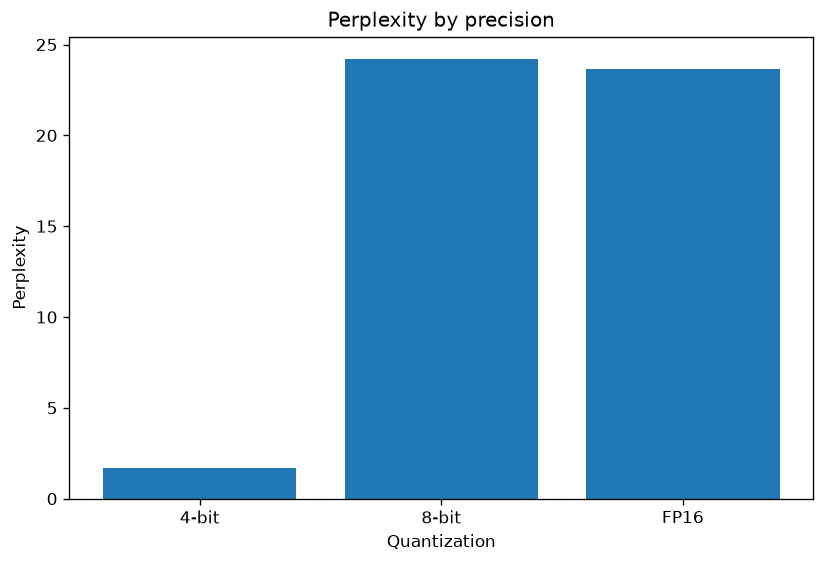
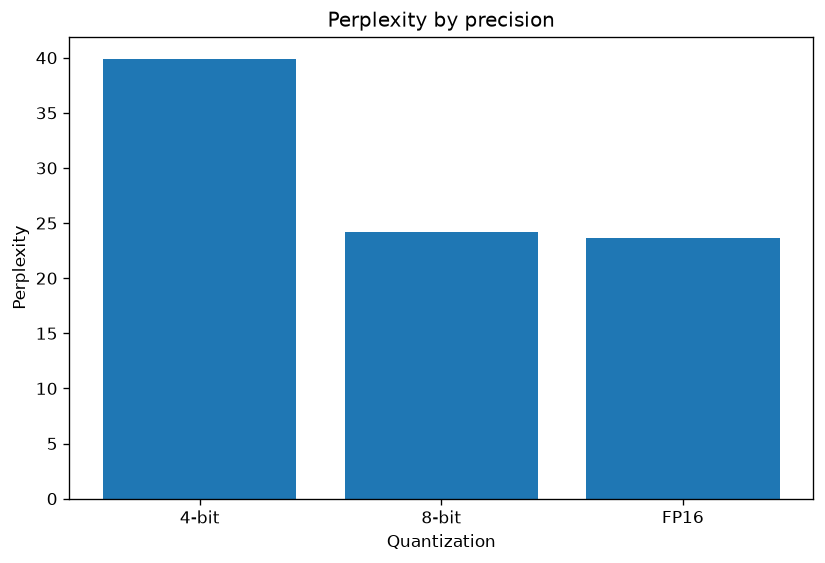
fix: pin perplexity figure to the baseline prompt length (#26)
* fix: pin perplexity figure to the baseline prompt length

The perplexity-by-precision figure compared quants at *different* prompt
lengths: `perplexity_by_quant` selected the first-loaded warm AirLLM run per
quant with no length pin, so for nf4 it picked up `airllm-nf4-len256`
(perplexity 1.67 on a 256-token prompt) instead of the fixed 40-token run
(39.92). Perplexity is not comparable across prompt lengths — longer context
lowers it — so the committed figure showed 4-bit as the *best* quality, the
exact inverse of the measured result and the report thesis (4-bit trades
quality for speed: 39.9 vs 8-bit 24.2 vs FP16 23.7 at a fixed prompt).

Fix: pin the selector to `_baseline_length` (the shortest measured prompt),
matching every sibling selector (cold_warm_ttft, cautionary_airllm_run,
itl_series). Regenerated figures/perplexity.png (only that figure changes).

RED→GREEN: new test asserts a stray longer-prompt sweep run does not feed the
cross-quant comparison. Found during T7.2 figure review.

* fix: pin perplexity to one global length across quants (PR #26 review)

Antigravity [Blocking]: the per-quant baseline is correct for cold_warm_ttft
(compares phases *within* a quant) but wrong for perplexity_by_quant, which
compares *across* quants. Under an asymmetric matrix (nf4 from 40, int8 only at
64) a per-quant baseline would compare nf4@40 against int8@64 — the same
not-comparable-across-lengths trap the original fix set out to kill.
[…]

diff --git a/tests/unit/test_plotting/test_prepare.py b/tests/unit/test_plotting/test_prepare.py
@@ -89,6 +89,32 @@ def test_perplexity_by_quant_uses_labelled_quants() -> None:
     assert ppl == {"4-bit": 39.9, "8-bit": 24.2}
 
 
+def test_perplexity_compares_quants_at_the_same_baseline_length() -> None:
+    # A longer-prompt sweep run carries a different (lower) perplexity, but perplexity
+    # across prompt lengths is not comparable. The cross-quant figure must pin to the
+    # baseline (shortest) length — like every sibling selector — not pick whichever
+    # warm run loads first (which would plot 1.7 for 4-bit and invert the thesis).
+    rows = [
+        _r("nf4-len256", "airllm", "nf4", "warm", prompt_tokens=256, perplexity=1.7),
+        _r("nf4-warm", "airllm", "nf4", "warm", prompt_tokens=40, perplexity=39.9),
+    ]
+    assert perplexity_by_quant(rows) == {"4-bit": 39.9}
+
+
+def test_perplexity_pins_one_global_length_across_quants() -> None:
+    # Cross-quant comparison must use ONE length common to all quants, not a per-quant
+    # baseline: under an asymmetric matrix (nf4 from 40, int8 only at 64) a per-quant
+    # baseline would compare nf4@40 against int8@64 — different lengths, the same
+    # not-comparable trap. The global baseline (40) drives every quant; a quant with no
+    # run at that length is dropped, not mis-compared.
+    rows = [
+        _r("nf4-40", "airllm", "nf4", "warm", prompt_tokens=40, perplexity=39.9),
+        _r("nf4-64", "airllm", "nf4", "warm", prompt_tokens=64, perplexity=6.5),
+        _r("int8-64", "airllm", "int8", "warm", prompt_tokens=64, perplexity=24.2),
+    ]
+    assert perplexity_by_quant(rows) == {"4-bit": 39.9}  # int8 has no 40-token run
+
+
 def test_itl_series_picks_nf4_cold_and_warm() -> None:
     rows = [
         _r("airllm-nf4-cold", "airllm", "nf4", "cold", itl_s=[3.0, 1.0]),

diff --git a/src/airllm_bench/plotting/prepare.py b/src/airllm_bench/plotting/prepare.py
@@ -61,10 +61,20 @@ def throughput_by_scenario(results: Sequence[RunResult]) -> dict[str, float]:
 
 
 def perplexity_by_quant(results: Sequence[RunResult]) -> dict[str, float]:
-    """{precision label: perplexity}, one warm AirLLM run per quant."""
+    """{precision label: perplexity}, one warm AirLLM run per quant.
+
+    Pinned to ONE global prompt length shared across quants — not a per-quant
+    baseline. This figure compares *across* quants, so all bars must sit at the
+    same length: perplexity across prompt lengths is not comparable (longer
+    context lowers it). Under an asymmetric matrix a per-quant baseline could
+    compare nf4@40 against int8@64; the global pin avoids that, and a quant with
+    no run at the shared length is dropped rather than mis-compared.
+    """
+    lengths = [r.prompt_tokens for r in _select(results, runner="airllm", phase="warm")]
+    base = min(lengths) if lengths else None
     out: dict[str, float] = {}
     for quant, label in _QUANT_LABEL.items():
-        run = _first(results, runner="airllm", quant=quant, phase="warm")
+        run = _first(results, runner="airllm", quant=quant, phase="warm", prompt_tokens=base)
         if run and run.perplexity is not None:
             out[label] = run.perplexity
     return out
